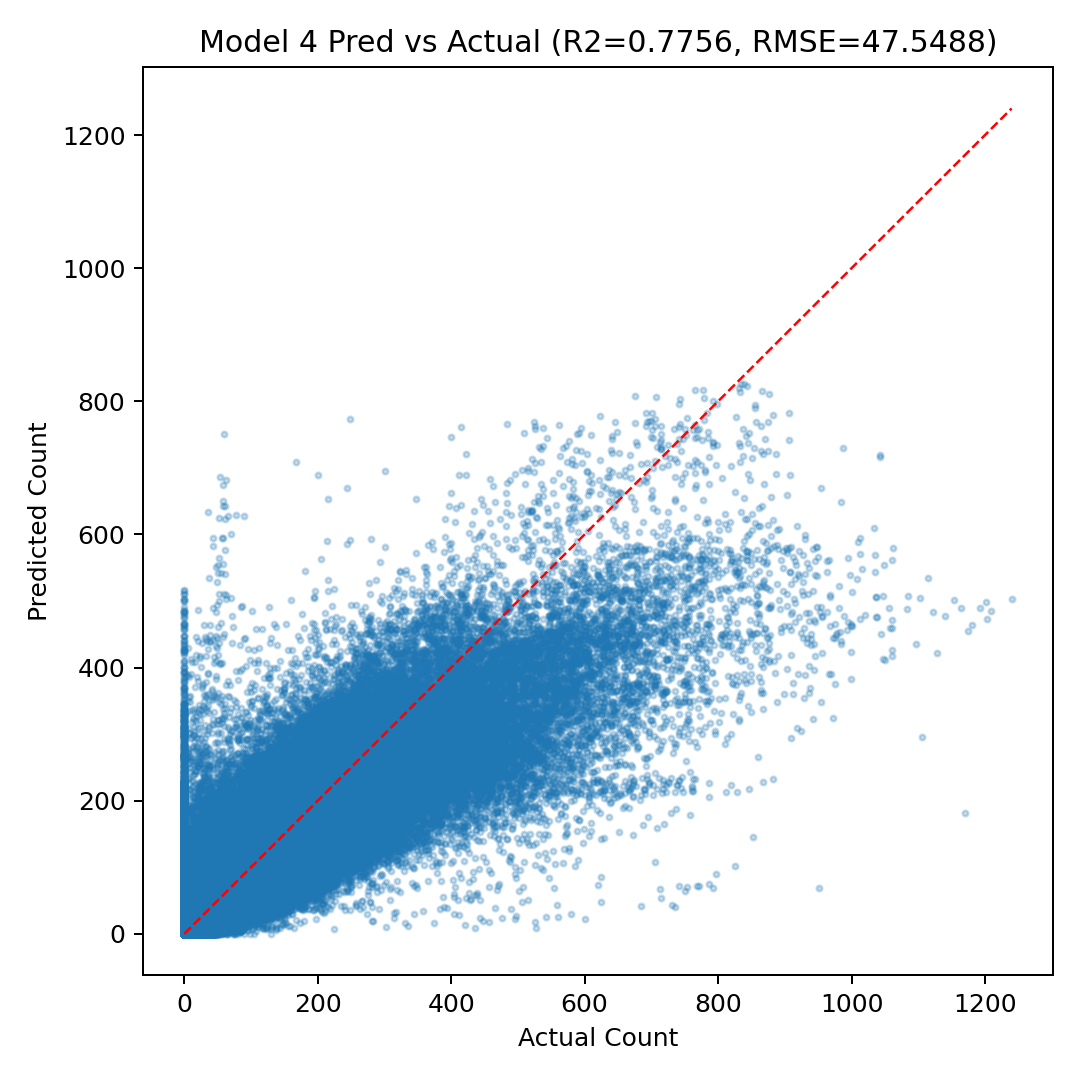
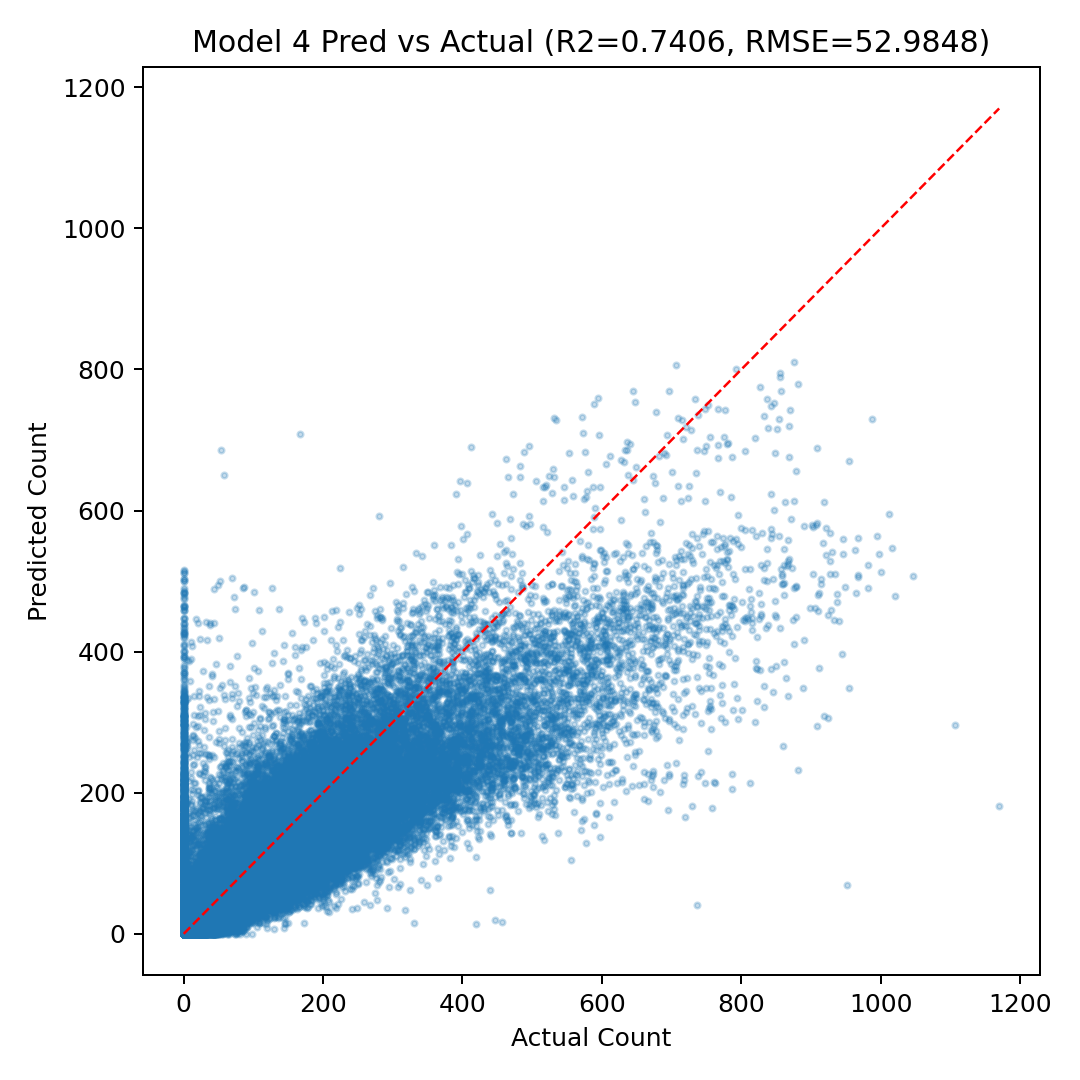
Render `model4_full_year_daily.png` as FeatureID small-multiples with 3 plots per row
Agent-Logs-Url: https://github.com/PranavSPandya7/BikeCount/sessions/602cc2b1-50b7-4610-a82e-5a7feb8bbb62

diff --git a/model4_outputs/model_code_r2=0.740619.py b/model4_outputs/model_code_r2=0.740619.py
@@ -1,0 +1,341 @@
+#!/usr/bin/env python3
+import argparse
+import math
+from pathlib import Path
+
+import numpy as np
+import pandas as pd
+import matplotlib.pyplot as plt
+from sklearn.cluster import KMeans
+from sklearn.ensemble import HistGradientBoostingRegressor
+from sklearn.metrics import mean_squared_error, r2_score
+
+
+def parse_args():
+    p = argparse.ArgumentParser(description="Run Model 4 and export metrics/plots.")
+    p.add_argument(
+        "--input",
+        default="/home/runner/work/BikeCount/BikeCount/PreparedForModel_micro_nomicro.csv",
+        help="Input CSV path",
+    )
+    p.add_argument(
+        "--output-dir",
+        default="/home/runner/work/BikeCount/BikeCount/model4_outputs",
+        help="Directory for outputs",
+    )
+    p.add_argument("--n-clusters", type=int, default=12, help="Number of teacher/feature clusters")
+    p.add_argument(
+        "--mean-blend-scale",
+        type=float,
+        default=0.0,
+        help="Blend scale for shrinking low-mean station predictions toward station mean",
+    )
+    p.add_argument("--max-stations", type=int, default=0, help="Limit number of test stations (0 = all)")
+    p.add_argument(
+        "--cluster-mode",
+        choices=["feature", "count"],
+        default="count",
+        help="Cluster mode for donor assignment (count mode generally tracks historical count behavior better)",
+    )
+    return p.parse_args()
+
+
+def safe_qcut(values: pd.Series, q: int) -> pd.Series:
+    uq = values.nunique()
+    bins = min(max(2, q), uq) if uq > 1 else 1
+    if bins == 1:
+        return pd.Series(np.zeros(len(values), dtype=int), index=values.index)
+    return pd.qcut(values, q=bins, labels=False, duplicates="drop").astype(int)
+
+
+def mode_or_default(s: pd.Series, default: int = 0) -> int:
+    if s.empty:
+        return default
+    m = s.mode(dropna=True)
+    if len(m) == 0:
+        return default
+    return int(m.iloc[0])
+
+
+def assign_cluster_from_value(train_values: pd.Series, value: float, n_clusters: int) -> int:
+    vals = pd.to_numeric(train_values, errors="coerce").dropna().values
+    if len(vals) == 0:
+        return 0
+    qs = np.linspace(0, 1, max(2, n_clusters) + 1)
+    edges = np.unique(np.quantile(vals, qs))
+    if len(edges) <= 1:
+        return 0
+    idx = np.searchsorted(edges, value, side="right") - 1
+    idx = int(np.clip(idx, 0, len(edges) - 2))
+    return idx
+
+
+def build_station_static(df: pd.DataFrame) -> pd.DataFrame:
+    static_cols = [
+        "Latitude", "Longitude", "Tree Proportion", "Grass Proportion", "Plant Proportion", "NDVI",
+        "Build 25m", "Build 125m", "Build 250m", "Veg 25m", "Veg 125m", "Veg 250m",
+        "Street 25m", "Street 125m", "Street 250m", "RoadType_encoded", "Directionality_encoded", "Shade",
+    ]
+    existing = [c for c in static_cols if c in df.columns]
+    station_static = df.groupby("FeatureID", as_index=False)[existing].mean(numeric_only=True)
+    return station_static
+
+
+def encode_feature_frame(df: pd.DataFrame, cols: list[str]) -> pd.DataFrame:
+    out = pd.DataFrame(index=df.index)
+    for c in cols:
+        if c not in df.columns:
+            continue
+        if pd.api.types.is_numeric_dtype(df[c]):
+            out[c] = df[c].astype(float).replace([np.inf, -np.inf], np.nan).fillna(0.0)
+        else:
+            out[c] = df[c].astype("string").fillna("missing").astype("category").cat.codes.astype(float)
+    return out
+
+
+def estimate_station_mean(test_station: str, train_station_stats: pd.DataFrame, station_static: pd.DataFrame,
+                          cluster_id_of_test: int, cluster_train: pd.DataFrame, cluster_col: str) -> float:
+    test_row = station_static[station_static["FeatureID"] == test_station]
+    if test_row.empty:
+        return float(train_station_stats["station_mean"].mean())
+
+    mapped = cluster_train[cluster_train[cluster_col] == cluster_id_of_test]["FeatureID"].tolist()
+    donors = train_station_stats[train_station_stats["FeatureID"].isin(mapped)].copy()
+    if donors.empty:
+        donors = train_station_stats.copy()
+
+    donor_static = station_static[station_static["FeatureID"].isin(donors["FeatureID"])].copy()
+    merged = donors.merge(donor_static, on="FeatureID", how="left")
+
+    static_cols = [c for c in merged.columns if c not in {"FeatureID", "station_mean"} and pd.api.types.is_numeric_dtype(merged[c])]
+    if not static_cols:
+        return float(donors["station_mean"].mean())
+
+    tv = test_row.iloc[0][static_cols].astype(float).values
+    X = merged[static_cols].astype(float).fillna(0.0).values
+    d = np.sqrt(np.sum((X - tv) ** 2, axis=1))
+    w = np.exp(-d)
+    if np.all(w <= 0):
+        return float(donors["station_mean"].mean())
+    return float(np.average(merged["station_mean"].values, weights=w))
+
+
+def main():
+    args = parse_args()
+    input_path = Path(args.input)
+    out_dir = Path(args.output_dir)
+    out_dir.mkdir(parents=True, exist_ok=True)
+
+    df = pd.read_csv(input_path)
+    if "date_parsed" in df.columns:
+        df["date_parsed"] = pd.to_datetime(df["date_parsed"], errors="coerce")
+    else:
+        df["date_parsed"] = pd.to_datetime(df["DateCET"], format="%d-%m-%y", errors="coerce")
+        if "hourCET" in df.columns:
+            df["date_parsed"] = df["date_parsed"] + pd.to_timedelta(df["hourCET"].fillna(0).astype(int), unit="h")
+
+    df = df.dropna(subset=["FeatureID", "Count", "date_parsed"]).copy()
+    df["Count"] = pd.to_numeric(df["Count"], errors="coerce").fillna(0.0)
+    df = df[df["Count"] >= 0].copy()
+
+    station_ids = sorted(df["FeatureID"].astype(str).unique().tolist())
+    if args.max_stations and args.max_stations > 0:
+        station_ids = station_ids[:args.max_stations]
+
+    station_static = build_station_static(df)
+
+    row_feature_cols = [
+        "hourCET", "mth", "weekday", "weCET", "School_holiday", "weeknum", "year_",
+        "Ta_nomicro", "RH_nomicro", "rain_nomicro", "hot_nomicro", "cold_nomicro", "windy_nomicro",
+        "wind_speed_ucc", "solar_bxl",
+        "Latitude", "Longitude", "Tree Proportion", "Grass Proportion", "Plant Proportion", "NDVI",
+        "Build 25m", "Build 125m", "Build 250m", "Veg 25m", "Veg 125m", "Veg 250m",
+        "Street 25m", "Street 125m", "Street 250m", "RoadType_encoded", "Directionality_encoded", "Shade",
+        "Green", "Tempcode",
+    ]
+
+    all_preds = []
+
+    for i, test_station in enumerate(station_ids, start=1):
+        train_df = df[df["FeatureID"].astype(str) != test_station].copy()
+        test_df = df[df["FeatureID"].astype(str) == test_station].copy()
+        if train_df.empty or test_df.empty:
+            continue
+
+        station_mean_train = (
+            train_df.groupby("FeatureID", as_index=False)["Count"].mean().rename(columns={"Count": "station_mean"})
+        )
+
+        train_df = train_df.merge(station_mean_train, on="FeatureID", how="left")
+        train_df["profile_target"] = train_df["Count"] / train_df["station_mean"].replace(0, np.nan)
+        train_df["profile_target"] = train_df["profile_target"].replace([np.inf, -np.inf], np.nan).fillna(0.0)
+        train_df["profile_target"] = train_df["profile_target"].clip(lower=0.0, upper=train_df["profile_target"].quantile(0.995))
+
+        station_teacher = station_mean_train.copy()
+        station_teacher["teacher_cluster"] = safe_qcut(station_teacher["station_mean"], args.n_clusters)
+
+        static_train = station_static[station_static["FeatureID"].isin(station_mean_train["FeatureID"])].copy()
+        static_cols = [c for c in static_train.columns if c != "FeatureID"]
+        Xs = static_train[static_cols].fillna(0.0).astype(float)
+
+        if args.cluster_mode == "feature":
+            n_clusters = min(args.n_clusters, len(static_train)) if len(static_train) > 0 else 1
+            n_clusters = max(1, n_clusters)
+            km = KMeans(n_clusters=n_clusters, random_state=42, n_init=10)
+            static_train["cluster_id"] = km.fit_predict(Xs)
+            cluster_map_df = static_train.merge(station_teacher[["FeatureID", "teacher_cluster"]], on="FeatureID", how="left")
+            cluster_map = (
+                cluster_map_df.groupby("cluster_id")["teacher_cluster"].agg(lambda s: mode_or_default(s, 0)).to_dict()
+            )
+            static_test = station_static[station_static["FeatureID"] == test_station].copy()
+            if static_test.empty:
+                continue
+            test_cluster_id = int(km.predict(static_test[static_cols].fillna(0.0).astype(float))[0])
+            pred_teacher_cluster = int(cluster_map.get(test_cluster_id, 0))
+        else:
+            # count-based cluster assignment (teacher cluster as deploy cluster)
+            cluster_train = station_teacher.rename(columns={"teacher_cluster": "cluster_id"}).copy()
+            test_station_mean = float(test_df["Count"].mean()) if len(test_df) else float(station_mean_train["station_mean"].mean())
+            test_cluster_id = assign_cluster_from_value(station_mean_train["station_mean"], test_station_mean, args.n_clusters)
+            pred_teacher_cluster = test_cluster_id
+            static_train = static_train.merge(cluster_train[["FeatureID", "cluster_id"]], on="FeatureID", how="left")
+
+        X_train = encode_feature_frame(train_df, row_feature_cols)
+        X_test = encode_feature_frame(test_df, row_feature_cols)
+
+        model = HistGradientBoostingRegressor(
+            loss="squared_error",
+            learning_rate=0.05,
+            max_depth=8,
+            max_iter=250,
+            min_samples_leaf=40,
+            random_state=42,
+        )
+        model.fit(X_train.values, train_df["profile_target"].values)
+        pred_profile = model.predict(X_test.values)
+        pred_profile = np.clip(pred_profile, 0.0, None)
+
+        est_station_mean = estimate_station_mean(
+            test_station=test_station,
+            train_station_stats=station_mean_train,
+            station_static=station_static,
+            cluster_id_of_test=test_cluster_id,
+            cluster_train=static_train[["FeatureID", "cluster_id"]],
+            cluster_col="cluster_id",
+        )
+        est_station_mean = max(est_station_mean, 1e-6)
+
+        pred_count_model = pred_profile * est_station_mean
+        blend_alpha = float(np.clip(est_station_mean / (est_station_mean + args.mean_blend_scale), 0.2, 1.0))
+        pred_count = blend_alpha * pred_count_model + (1.0 - blend_alpha) * est_station_mean
+        fold_out = test_df[["FeatureID", "date_parsed", "Count"]].copy()
+        fold_out["Pred_Count"] = pred_count
+        fold_out["Fold_Test_Station"] = test_station
+        fold_out["Pred_Feature_Cluster"] = test_cluster_id
+        fold_out["Pred_Teacher_Cluster"] = pred_teacher_cluster
+        all_preds.append(fold_out)
+
+        print(f"[{i}/{len(station_ids)}] done {test_station} with {len(test_df)} rows")
+
+    if not all_preds:
+        raise RuntimeError(
+            "No predictions were generated. Verify that the input file contains valid station data with matching FeatureIDs."
+        )
+
+    pred_df = pd.concat(all_preds, axis=0, ignore_index=True)
+    pred_df["Pred_Count"] = pred_df["Pred_Count"].clip(lower=0.0)
+    pred_df = pred_df[pred_df["date_parsed"].dt.year == 2024].copy()
+    if pred_df.empty:
+        raise RuntimeError("No predictions available for year 2024 after filtering.")
+
+    y_true = pred_df["Count"].values
+    y_pred = pred_df["Pred_Count"].values
+
+    r2 = r2_score(y_true, y_pred)
+    rmse = math.sqrt(mean_squared_error(y_true, y_pred))
+    r2_tag = f"{r2:.6f}"
+
+    metrics = pd.DataFrame([{"Model": "Model4", "R2": r2, "RMSE": rmse, "Rows": len(pred_df), "Stations": pred_df["FeatureID"].nunique()}])
+    metrics.to_csv(out_dir / "model4_metrics.csv", index=False)
+    pred_df.sort_values(["date_parsed", "FeatureID"]).to_csv(out_dir / "model4_predictions_full.csv", index=False)
+    cluster_df = (
+        pred_df[["Fold_Test_Station", "Pred_Feature_Cluster", "Pred_Teacher_Cluster"]]
+        .drop_duplicates()
+        .sort_values(["Fold_Test_Station"])
+    )
+    cluster_df.to_csv(out_dir / f"cluster_r2={r2_tag}.csv", index=False)
+    script_path = Path(__file__).resolve()
+    (out_dir / f"model_code_r2={r2_tag}.py").write_text(script_path.read_text(encoding="utf-8"), encoding="utf-8")
+
+    daily = pred_df.copy()
+    daily["date"] = daily["date_parsed"].dt.date
+    feature_ids = sorted(daily["FeatureID"].astype(str).unique().tolist())
+    n_cols = 3
+    n_rows = math.ceil(len(feature_ids) / n_cols)
+    fig, axes = plt.subplots(n_rows, n_cols, figsize=(18, max(4 * n_rows, 5)), sharex=False, sharey=False)
+    axes = np.array(axes).reshape(-1)
+    for i, fid in enumerate(feature_ids):
+        ax = axes[i]
+        fdf = daily[daily["FeatureID"].astype(str) == fid]
+        fday = fdf.groupby("date", as_index=False)[["Count", "Pred_Count"]].sum()
+        x = pd.to_datetime(fday["date"])
+        ax.plot(x, fday["Count"], label="Actual", linewidth=1.0)
+        ax.plot(x, fday["Pred_Count"], label="Predicted", linewidth=1.0)
+        ax.set_title(f"FeatureID {fid}")
+        ax.tick_params(axis="x", labelrotation=45)
+    for j in range(len(feature_ids), len(axes)):
+        axes[j].axis("off")
+    handles, labels = axes[0].get_legend_handles_labels()
+    if handles:
+        fig.legend(handles, labels, loc="upper center", ncol=2)
+    fig.suptitle(f"Model 4 - Year 2024 Daily Totals by FeatureID (R2={r2:.4f}, RMSE={rmse:.4f})", y=0.995)
+    fig.tight_layout(rect=[0, 0, 1, 0.98])
+    fig.savefig(out_dir / "model4_full_year_daily.png", dpi=180)
+    plt.close(fig)
+
+    monthly = pred_df.copy()
+    monthly["month"] = monthly["date_parsed"].dt.month
+    monthly["date"] = monthly["date_parsed"].dt.date
+
+    fig, axes = plt.subplots(3, 4, figsize=(18, 11), sharey=False)
+    axes = axes.flatten()
+    for m in range(1, 13):
+        ax = axes[m - 1]
+        mdf = monthly[monthly["month"] == m]
+        if mdf.empty:
+            ax.set_title(f"Month {m} (no data)")
+            ax.axis("off")
+            continue
+        mday = mdf.groupby("date", as_index=False)[["Count", "Pred_Count"]].sum()
+        x = pd.to_datetime(mday["date"])
+        ax.plot(x, mday["Count"], label="Actual", linewidth=1.0)
+        ax.plot(x, mday["Pred_Count"], label="Pred", linewidth=1.0)
+        ax.set_title(f"Month {m}")
+        ax.tick_params(axis="x", labelrotation=45)
+    handles, labels = axes[0].get_legend_handles_labels()
+    if handles:
+        fig.legend(handles, labels, loc="upper center", ncol=2)
+    fig.suptitle("Model 4 - Year 2024 Monthly Daily Totals (12-Month Panels)", y=0.99)
+    fig.tight_layout(rect=[0, 0, 1, 0.97])
+    fig.savefig(out_dir / "model4_12month_panels.png", dpi=180)
+    plt.close(fig)
+
+    plt.figure(figsize=(6, 6))
+    plt.scatter(y_true, y_pred, s=5, alpha=0.25)
+    lim = max(np.max(y_true), np.max(y_pred))
+    plt.plot([0, lim], [0, lim], "r--", linewidth=1)
+    plt.xlabel("Actual Count")
+    plt.ylabel("Predicted Count")
+    plt.title(f"Model 4 Pred vs Actual (R2={r2:.4f}, RMSE={rmse:.4f})")
+    plt.tight_layout()
+    plt.savefig(out_dir / "model4_scatter.png", dpi=180)
+    plt.close()
+
+    print("\nModel 4 completed.")
+    print(f"R2   : {r2:.6f}")
+    print(f"RMSE : {rmse:.6f}")
+    print(f"Outputs written to: {out_dir}")
+
+
+if __name__ == "__main__":
+    main()
